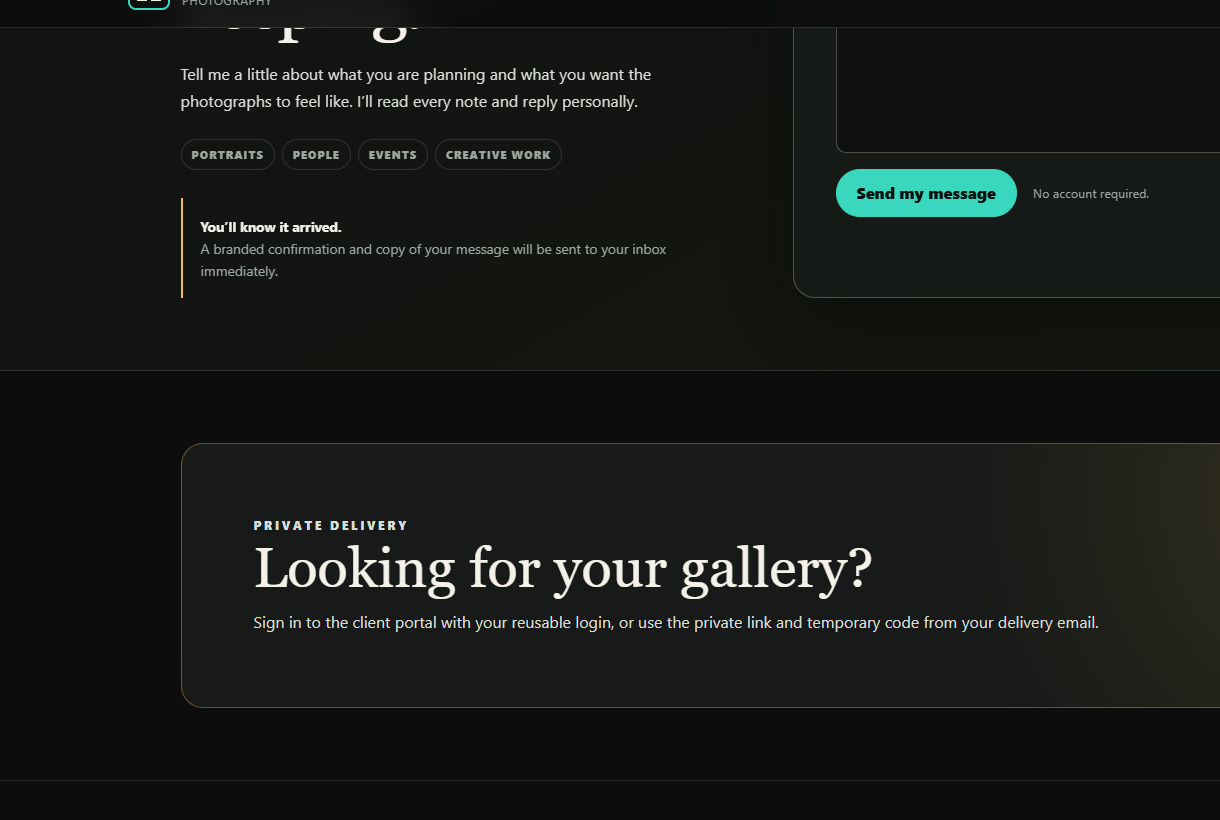
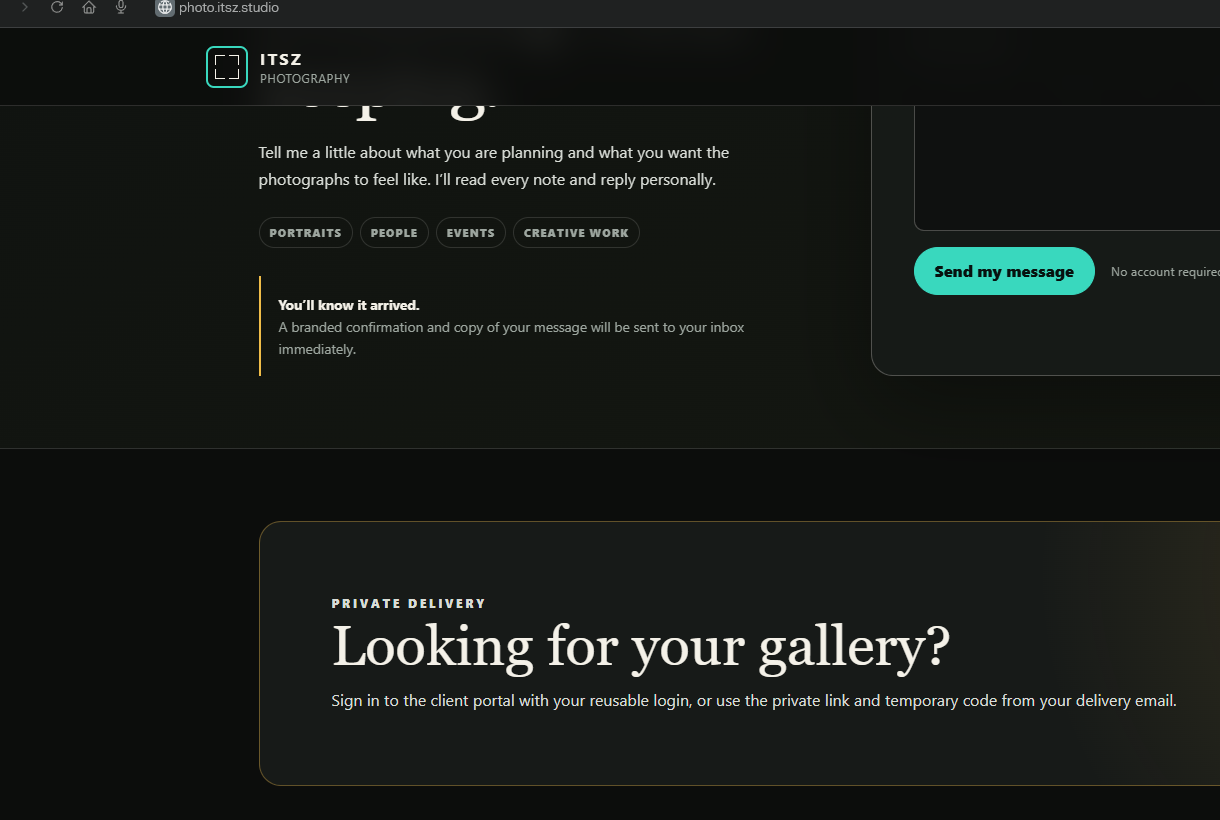
Build Mobile Base Imager 0.3.3

diff --git a/docs/index.html b/docs/index.html
@@ -13,7 +13,7 @@
   <div class="grid"></div>
   <header>
     <a class="brand" href="#top"><img src="assets/mobile-base-imager-mark.svg" alt=""><span><small>MOBILE BASE</small><strong>IMAGER</strong></span></a>
-    <nav><a href="#features">Features</a><a href="#safety">Safety</a><a href="https://github.com/Its-ze/mobile-base-imager">GitHub</a></nav>
+    <nav><a href="#features">Features</a><a href="#safety">Safety</a><a href="https://mobilebase.itsz.studio">Home Base</a><a href="https://github.com/Its-ze/mobile-base-imager">GitHub</a></nav>
   </header>
   <main id="top">
     <section class="hero">
@@ -25,8 +25,9 @@
           <a id="download-exe" class="button primary" href="https://github.com/Its-ze/mobile-base-imager/releases/latest">DOWNLOAD FOR WINDOWS</a>
           <a id="download-linux" class="button primary" href="https://github.com/Its-ze/mobile-base-imager/releases/latest">DOWNLOAD APPIMAGE</a>
           <a id="download-image" class="button" href="https://github.com/Its-ze/mobile-base-imager/releases/latest">MOBILE BASE IMAGE</a>
+          <a class="button" href="https://mobilebase.itsz.studio">OPEN HOME BASE</a>
         </div>
-        <div class="release"><span class="pulse"></span><strong id="release-version">v0.3.2</strong><span>Windows + Linux x64</span><span>Open source</span></div>
+        <div class="release"><span class="pulse"></span><strong id="release-version">v0.3.3</strong><span>Windows + Linux x64</span><span>Managed Pi 0.9.0</span></div>
       </div>
       <div class="product-card">
         <div class="window-bar"><i></i><span>MOBILE BASE IMAGER</span><em>ADMIN READY</em></div>

diff --git a/app/mobile_base_imager.py b/app/mobile_base_imager.py
@@ -38,11 +38,11 @@ from app.core import (
 PRODUCT = "Mobile Base Imager"
 MANIFEST_URL = "https://its-ze.github.io/mobile-base-imager/release-manifest.json"
 FALLBACK_MANIFEST = {
-    "imageVersion": "0.8.1",
-    "imageAsset": "mobile-base-pi5-0.8.1.img.zst",
-    "imageUrl": "https://github.com/Its-ze/mobile-base-imager/releases/download/v0.3.2/mobile-base-pi5-0.8.1.img.zst",
-    "imageBytes": 517300627,
[1 lines of base64/hex data omitted]
+    "imageVersion": "0.9.0",
+    "imageAsset": "mobile-base-pi5-0.9.0.img.zst",
+    "imageUrl": "https://github.com/Its-ze/mobile-base-imager/releases/download/v0.3.3/mobile-base-pi5-0.9.0.img.zst",
+    "imageBytes": 517431097,
[1 lines of base64/hex data omitted]
 }
 BG = "#071013"
 NAV = "#09171b"

diff --git a/app/__init__.py b/app/__init__.py
@@ -1,1 +1,1 @@
-__version__ = "0.3.2"
+__version__ = "0.3.3"

diff --git a/README.md b/README.md
@@ -46,8 +46,8 @@ Ubuntu 24.04+, Debian 13+, and compatible x86_64 distributions with glibc 2.39+ 
 On Fedora 40 or newer, download the AppImage, make it executable, and run it:
 
 ```bash
-chmod +x Mobile_Base_Imager-0.3.2-x86_64.AppImage
-./Mobile_Base_Imager-0.3.2-x86_64.AppImage
+chmod +x Mobile_Base_Imager-0.3.3-x86_64.AppImage
+./Mobile_Base_Imager-0.3.3-x86_64.AppImage
 ```
 
 Download and run the standalone installer:
@@ -60,10 +60,12 @@ bash install-mobile-base-imager.sh
 The installer downloads the matching Debian package, verifies its published SHA-256, installs required system packages through APT, creates the desktop entry, and runs the built-in self-test.
 
 ```bash
-sudo apt install ./mobile-base-imager_0.3.2_linux_amd64.deb
+sudo apt install ./mobile-base-imager_0.3.3_linux_amd64.deb
 ```
 
 The portable Linux archive can run without installation. Extract it and launch `./mobile-base-imager`, or run `sudo ./install.sh` to add the desktop entry.
+
+New Mobile Base 0.9.0 units can be enrolled from their local **Hub** page with the authenticated Unraid home base at [mobilebase.itsz.studio](https://mobilebase.itsz.studio). Remote management is outbound-only and opt-in; the image does not expose a hidden Internet listener.
 
 Linux discovery uses `lsblk`; destructive operations use `wipefs`, `parted`, and the appropriate `mkfs` utility. The app's **Restart as root** button elevates only after the operator chooses a raw-media workflow.
 